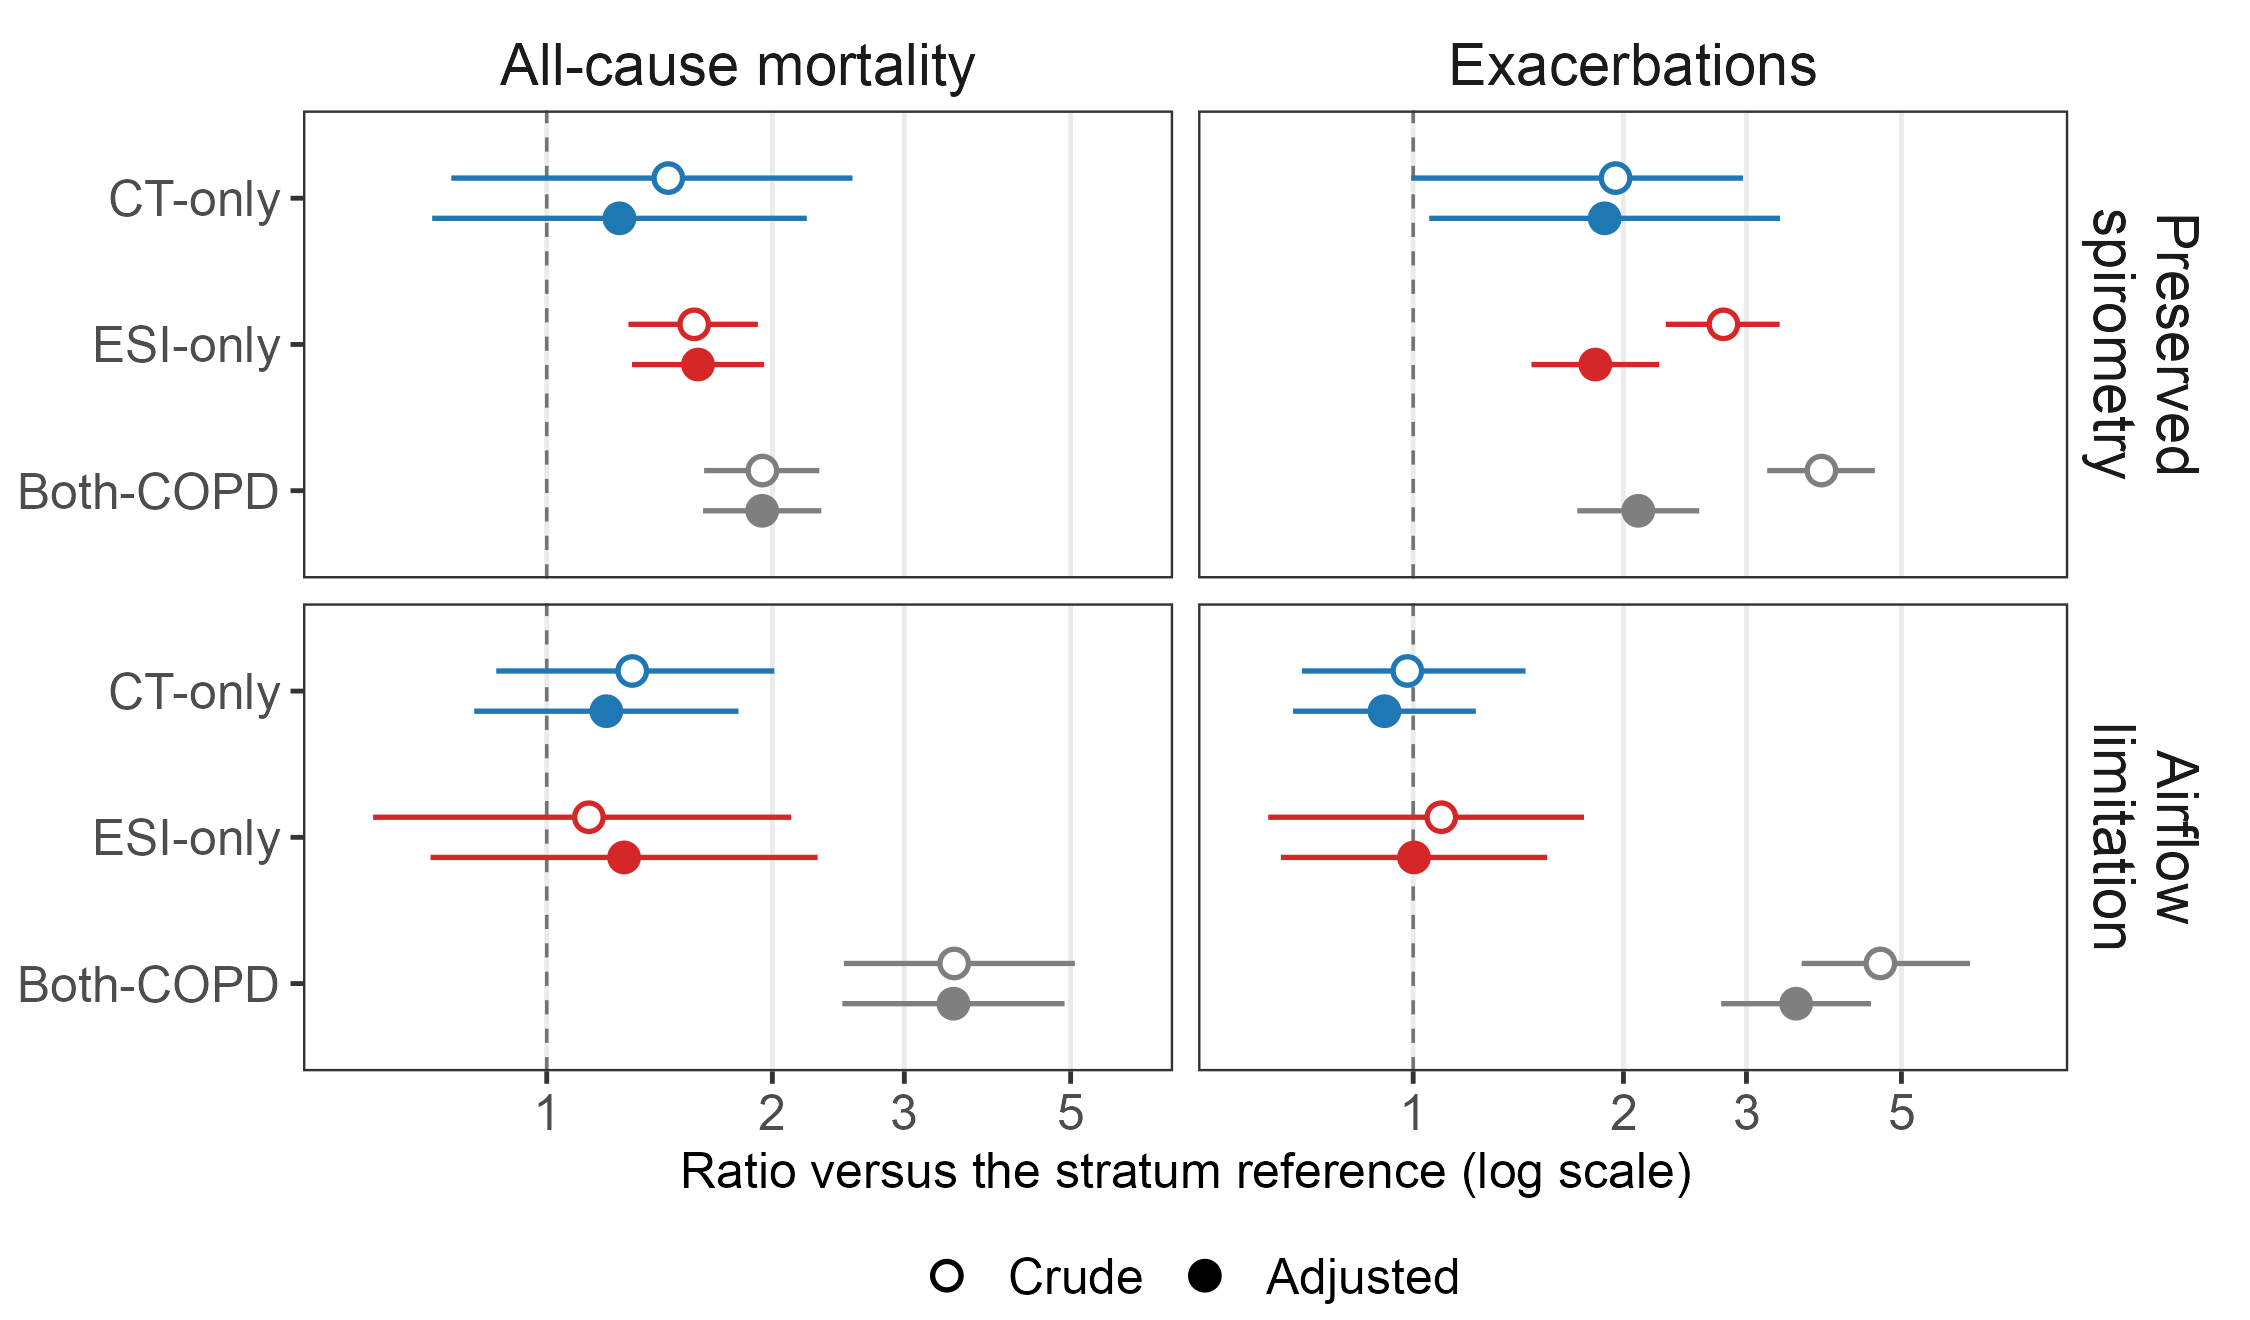
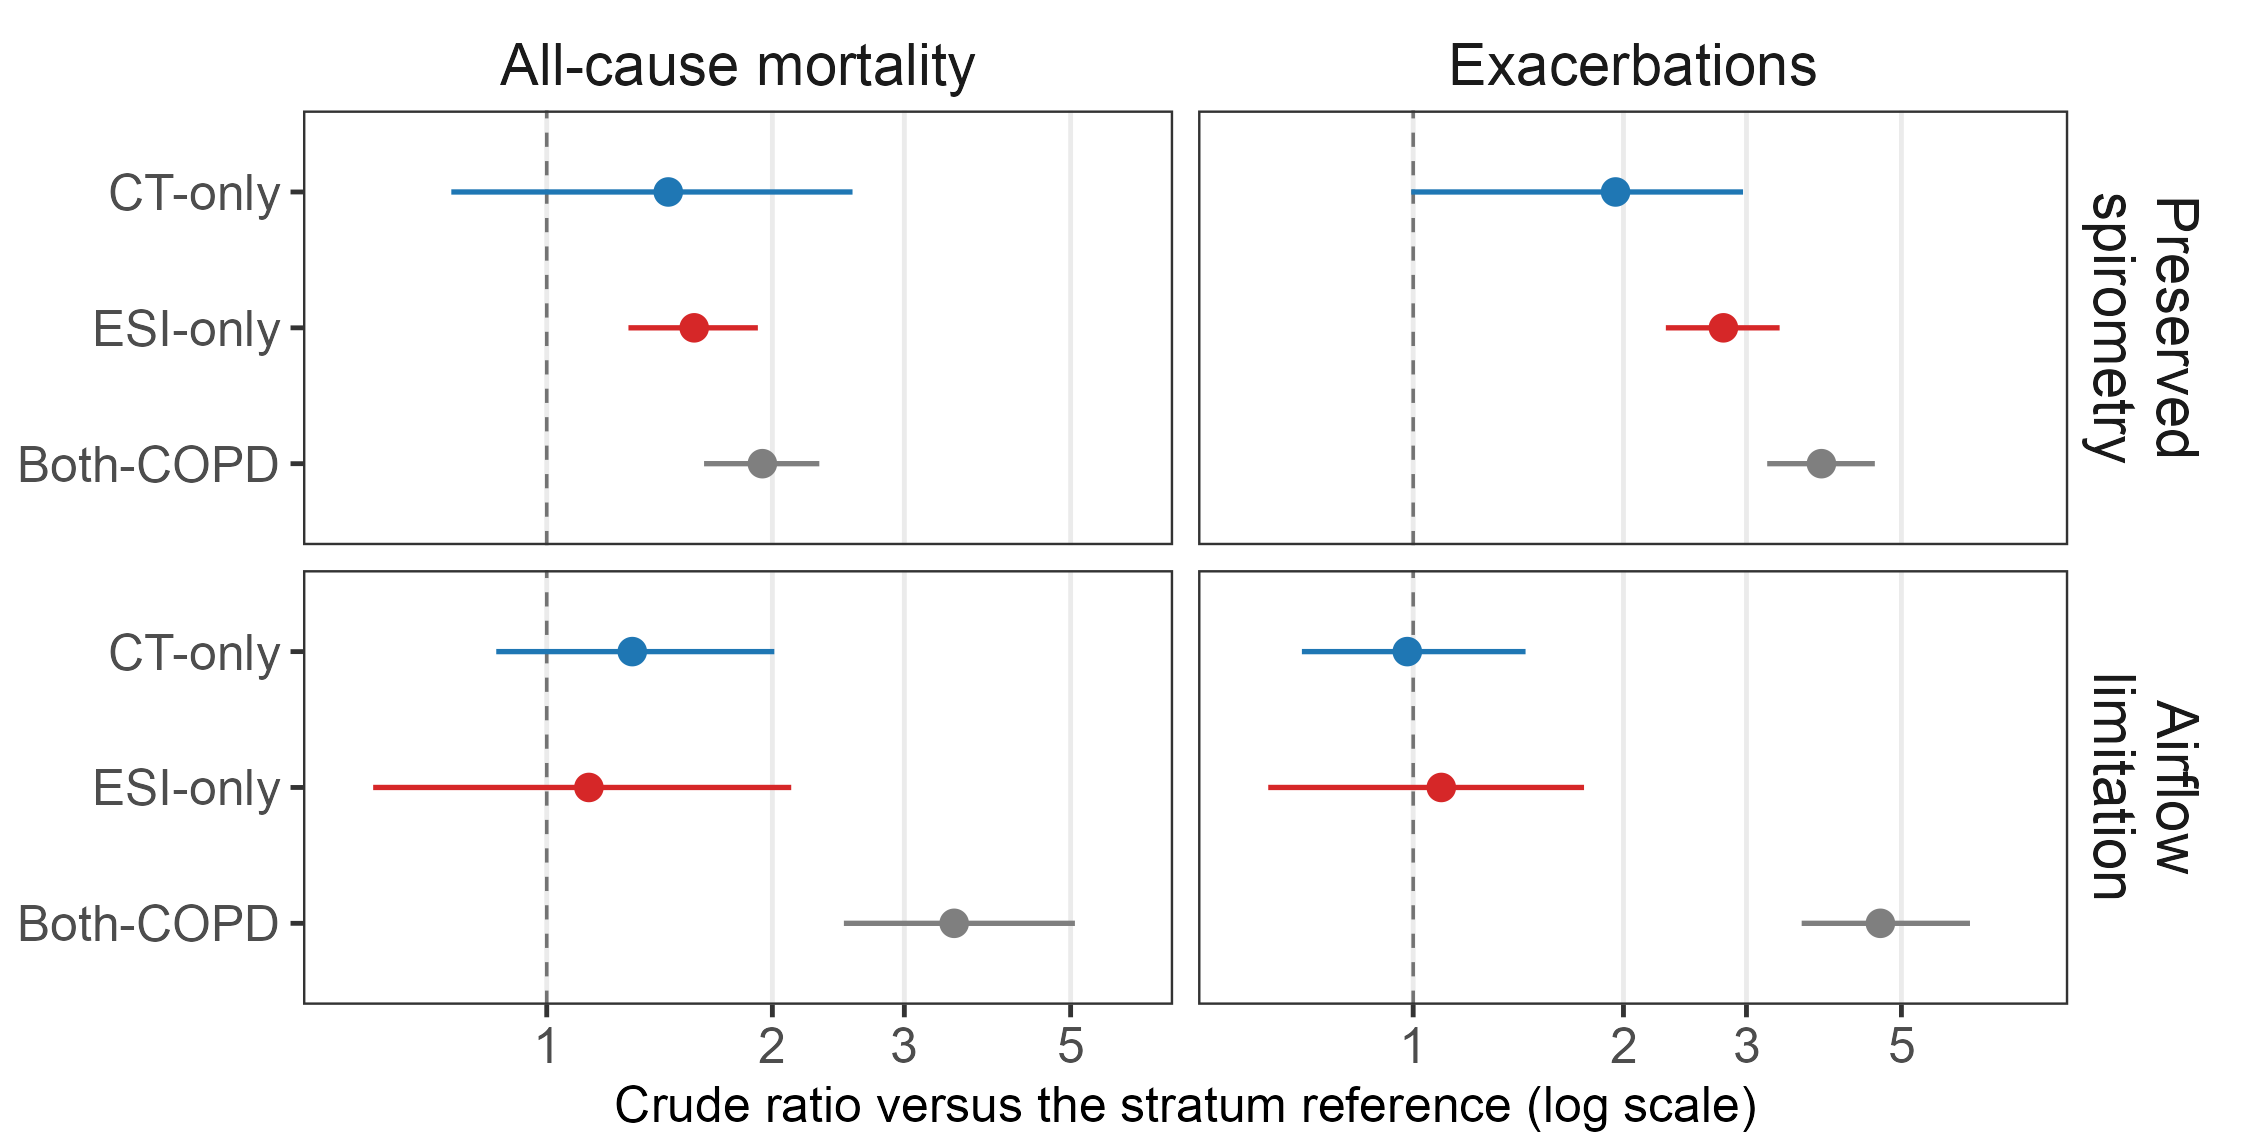
ctfree Figure 6 and Table S7: crude ratios only, no respiratory mortality
Pete, 2026-09-11. Adjusted estimates removed from both; respiratory mortality
removed from S7 as from Figure 6, with its death totals in both legends. Every
remaining cell clears the 10-event floor (asserted in both).

diff --git a/ctfree/build_manuscript.py b/ctfree/build_manuscript.py
@@ -324,66 +324,64 @@ def t_risk_common_ref(doc, label="Table 3."):
 
 def t_discord_risk(doc, label="Table 4."):
     """Cross-classification of MD-COPD and the ESI classification: each group
-    against its own stratum's reference, crude ratios first, as in Figure 6.
-    One table with a header row per stratum; each stratum carries its own
-    reference row, because the references differ (both call noCOPD where
-    spirometry is preserved, both call AFL-only where it is not). The event
-    floor applies to the group and to its reference alike."""
+    against its own stratum's reference, crude ratios only, respiratory mortality
+    out for too few deaths (Pete, 2026-09-11),
+    as in Figure 6. One table with a header row per stratum; each stratum
+    carries its own reference row, because the references differ (both call
+    noCOPD where spirometry is preserved, both call AFL-only where it is not).
+    The event floor applies to the group and to its reference alike."""
     FLOOR, FLAG = 10, "\u2020"
-    STRATA = [("Preserved spirometry", "discord_rates.csv", "discord_adjusted.csv", "Both-noCOPD"),
-              ("Airflow limitation", "discord_rates_afl.csv", "discord_adjusted_afl.csv", "Both-AFL-only")]
+    STRATA = [("Preserved spirometry", "discord_rates.csv", "Both-noCOPD"),
+              ("Airflow limitation", "discord_rates_afl.csv", "Both-AFL-only")]
     ORDER = ["CT-only-COPD", "ESI-only-COPD", "Both-COPD"]
     cru = {(r["stratum"], r["group"], r["outcome"]): r for r in load("discord_crude_strata.csv")}
 
-    def cell(v, lo, hi, n_ev, n_ref):
-        if n_ev == 0 or v in ("", "NA"):
+    def cell(r, n_ev, n_ref):
+        if n_ev == 0:
             return "not estimable"
-        if n_ev < FLOOR or n_ref < FLOOR or lo in ("", "NA"):
-            return f"{float(v):.2f}{FLAG}"
-        return f"{float(v):.2f} ({float(lo):.2f}\u2013{float(hi):.2f})"
+        if n_ev < FLOOR or n_ref < FLOOR or r["lo"] in ("", "NA"):
+            return f"{float(r['rr']):.2f}{FLAG}"
+        return f"{float(r['rr']):.2f} ({float(r['lo']):.2f}\u2013{float(r['hi']):.2f})"
 
-    rows, ref_resp = [], {}
-    for title, rf, af, refg in STRATA:
+    rows, resp = [], {}
+    for title, rf, refg in STRATA:
         rates = {r["group"]: r for r in load(rf)}
-        adj = {r["group"]: r for r in load(af)}
         R = rates[refg]
         ref_ev = {"all": int(R["deaths"]), "resp": int(R["resp_deaths"]), "exac": 10 ** 9}
-        ref_resp[title] = ref_ev["resp"]
         rows.append(Section(title))
-        rows.append([f"\u2003{refg} (reference)", f"{int(R['deaths']):,}", "1.00", "reference",
-                     f"{int(R['resp_deaths']):,}", "1.00", "reference", "1.00", "reference"])
+        rows.append([f"\u2003{refg} (reference)", f"{int(R['n']):,}", f"{int(R['deaths']):,}", "1.00",
+                     "1.00"])
+        resp[title] = [(refg, int(R["resp_deaths"]))]
         for g in ORDER:
             c = {o: cru[(title, g, o)] for o in ("all", "resp", "exac")}
             ev = {o: int(float(c[o]["events"])) for o in c}
-            a = adj[g]
             assert ev["all"] == int(rates[g]["deaths"]) and ev["resp"] == int(rates[g]["resp_deaths"]), g
-            rows.append([
-                "\u2003" + g, f"{ev['all']:,}",
-                cell(c["all"]["rr"], c["all"]["lo"], c["all"]["hi"], ev["all"], ref_ev["all"]),
-                cell(a["all_HR"], a["all_LCI"], a["all_UCI"], ev["all"], ref_ev["all"]),
-                f"{ev['resp']:,}",
-                cell(c["resp"]["rr"], c["resp"]["lo"], c["resp"]["hi"], ev["resp"], ref_ev["resp"]),
-                cell(a["resp_HR"], a["resp_LCI"], a["resp_UCI"], ev["resp"], ref_ev["resp"]),
-                cell(c["exac"]["rr"], c["exac"]["lo"], c["exac"]["hi"], ev["exac"], ref_ev["exac"]),
-                cell(a["exac_IRR"], a["exac_LCI"], a["exac_UCI"], ev["exac"], ref_ev["exac"])])
-    add_table(doc, ["Group", "Deaths", "All-cause RR", "All-cause HR (95% CI)",
-                    "Resp. deaths", "Resp. RR", "Resp. HR (95% CI)",
-                    "Exac. RR", "Exac. IRR (95% CI)"],
-              rows, [1.24, 0.42, 0.62, 0.86, 0.48, 0.62, 0.86, 0.58, 0.82])
+            rows.append(["\u2003" + g, f"{int(rates[g]['n']):,}", f"{ev['all']:,}",
+                         cell(c["all"], ev["all"], ref_ev["all"]),
+                         cell(c["exac"], ev["exac"], ref_ev["exac"])])
+            resp[title].append((g, ev["resp"]))
+    # With respiratory mortality out, every cell clears the floor; the legend
+    # carries no flag note, so a flagged cell appearing later must stop the build.
+    assert not any(FLAG in str(v) for r in rows if not isinstance(r, Section) for v in r), \
+        "S7 has a cell under the event floor; restore the flag note in its legend"
+    add_table(doc, ["Group", "n", "Deaths", "All-cause mortality RR (95% CI)",
+                    "Exacerbation RR (95% CI)"],
+              rows, [2.00, 0.70, 0.80, 1.50, 1.50])
+    resp_txt = "; ".join(
+        f"with {st[0].lower() + st[1:]}, " + ", ".join(f"{n} in {g}" for g, n in v)
+        for st, v in resp.items())
     legend(doc, label,
            "Participants cross-classified by MD-COPD and the ESI classification within each "
            "stratum of airflow limitation. CT-only-COPD is COPD under MD-COPD only, "
            "ESI-only-COPD COPD under the ESI classification only, and Both-COPD COPD under "
            "both. Each stratum is estimated against its own reference row, so estimates are "
            "comparable within a stratum and not between strata. Crude rate ratios (RR) are "
-           "the observed event rate in the group divided by the rate in the reference. "
-           "Adjusted models carry age, sex, race, current smoking status, pack-years and "
-           "body mass index, with prior exacerbation frequency added for exacerbations. "
-           f"{FLAG} fewer than 10 events in the group or in its reference: the point "
-           "estimate is given without an interval. The airflow-limitation reference had "
-           f"{ref_resp['Airflow limitation']} respiratory deaths. AFL-only, airflow "
-           "limitation without other criteria; HR, hazard ratio; IRR, incidence rate "
-           "ratio; CI, confidence interval.")
+           "the observed event rate in the group divided by the rate in the reference; "
+           "intervals are exact Poisson intervals for deaths and subject-bootstrap intervals "
+           "for exacerbations. "
+           "Respiratory mortality is not shown because the numbers of respiratory deaths "
+           f"are too small for estimation: {resp_txt}. AFL-only, airflow limitation "
+           "without other criteria; CI, confidence interval.")
 
 def t_esi_auc(doc, label="Table 2."):
     """ESI's discrimination of the two visual CT criteria, by stratum. This is

diff --git a/ctfree/figures/figure6_discord_risk_legend.md b/ctfree/figures/figure6_discord_risk_legend.md
@@ -1,3 +1,3 @@
 **Figure 6. Risk in the groups on which MD-COPD and the ESI classification agree or disagree.**
 
-Crude (open circles) and adjusted (filled circles) ratios for the three groups either classification calls COPD, within each stratum of airflow limitation: against the participants both classify as noCOPD among those with preserved spirometry (top row), and against those both classify as AFL-only among those with airflow limitation (bottom row). The two rows have different references, so estimates are comparable within a row and not between rows. CT-only, COPD under MD-COPD only; ESI-only, COPD under the ESI classification only; Both-COPD, COPD under both. Respiratory mortality is not shown because the numbers of respiratory deaths are too small for estimation: with preserved spirometry, 11 in the reference, 0 CT-only, 5 ESI-only and 8 Both-COPD; with airflow limitation, 2 in the reference, 2 CT-only, 0 ESI-only and 592 Both-COPD. Adjusted models carry age, sex, race, current smoking status, pack-years and body mass index, with prior exacerbation frequency added for exacerbations. AFL-only, airflow limitation without other criteria.
+Crude rate ratios for all-cause mortality and exacerbations, with 95% confidence intervals, for the three groups either classification calls COPD, within each stratum of airflow limitation: against the participants both classify as noCOPD among those with preserved spirometry (top row), and against those both classify as AFL-only among those with airflow limitation (bottom row). The two rows have different references, so estimates are comparable within a row and not between rows. Intervals are exact Poisson intervals for deaths and subject-bootstrap intervals for exacerbations. CT-only, COPD under MD-COPD only; ESI-only, COPD under the ESI classification only; Both-COPD, COPD under both. Respiratory mortality is not shown because the numbers of respiratory deaths are too small for estimation: with preserved spirometry, 11 in the reference, 0 CT-only, 5 ESI-only and 8 Both-COPD; with airflow limitation, 2 in the reference, 2 CT-only, 0 ESI-only and 592 Both-COPD. AFL-only, airflow limitation without other criteria.
